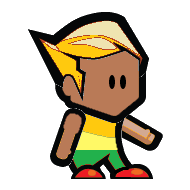
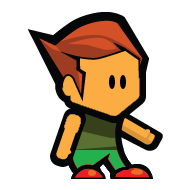
teacher profile pic bug

Changed region(s): [[0.2105, 0.1053, 0.8158, 0.8421]]

diff --git a/js/loadProfile.js b/js/loadProfile.js
@@ -5,12 +5,6 @@ function loadProfileStudent() {
 	document.getElementById('grade').innerHTML = "Grade: " + sessionStorage.getItem('grade');
 	document.getElementById('code').innerHTML = sessionStorage.getItem('code');
 	
-	if(sessionStorage.getItem('profilePic') != 'null'){
-		document.getElementById("profile-pic").src = sessionStorage.getItem('profilePic');
-	} else {
-		document.getElementById("profile-pic").src = "images/anonym.png";
-	};
-	
 	var xhttp = new XMLHttpRequest();
 	xhttp.onreadystatechange = function() {
 		if (this.readyState == 4 && this.status == 200) {
@@ -21,9 +15,11 @@ function loadProfileStudent() {
 				return response[k];
 			});
 			
-			if(arr2[6] != 'null'){
+			if(arr2[6] != null){
 				document.getElementById("profile-pic").src = arr2[6];
 				sessionStorage.setItem('profilePic', arr2[6]);
+			} else {
+				document.getElementById("profile-pic").src = "images/anonym.png";
 			};
 			
 			for (i = 0; i < arr2[7].length; i++) {
@@ -94,12 +90,6 @@ function loadProfileTeacher() {
 	document.getElementById('school-name').innerHTML = sessionStorage.getItem('school');
 	document.getElementById('code').innerHTML = sessionStorage.getItem('code');
 	
-	if(sessionStorage.getItem('profilePic') != 'null'){
-		document.getElementById("profile-pic").src = sessionStorage.getItem('profilePic');
-	} else {
-		document.getElementById("profile-pic").src = "images/anonym.png";
-	};
-	
 	var xhttp = new XMLHttpRequest();
 	xhttp.onreadystatechange = function() {
 		if (this.readyState == 4 && this.status == 200) {
@@ -109,6 +99,13 @@ function loadProfileTeacher() {
 			var arr2 = arr1.map(function (k) {
 				return response[k];
 			});
+
+			if(arr2[2] != null){
+				document.getElementById("profile-pic").src = arr2[2];
+				sessionStorage.setItem('profilePic', arr2[2]);
+			} else {
+				document.getElementById("profile-pic").src = "images/anonym.png";
+			};
 			
 			//Subjects list
 			for (i = 0; i < arr2[0].length; i++) {

diff --git a/js/authMgr.js b/js/authMgr.js
@@ -131,7 +131,7 @@ function GetProfileDetails(){
 			sessionStorage.setItem('role', arr2[2]);
 			sessionStorage.setItem('school', arr2[3]);
 			sessionStorage.setItem('code', arr2[5]);
-			sessionStorage.setItem('profilePic', arr2[6]);
+
 			if (sessionStorage.getItem('role') == 'student'){
 				sessionStorage.setItem('grade', arr2[4]);
 			};
